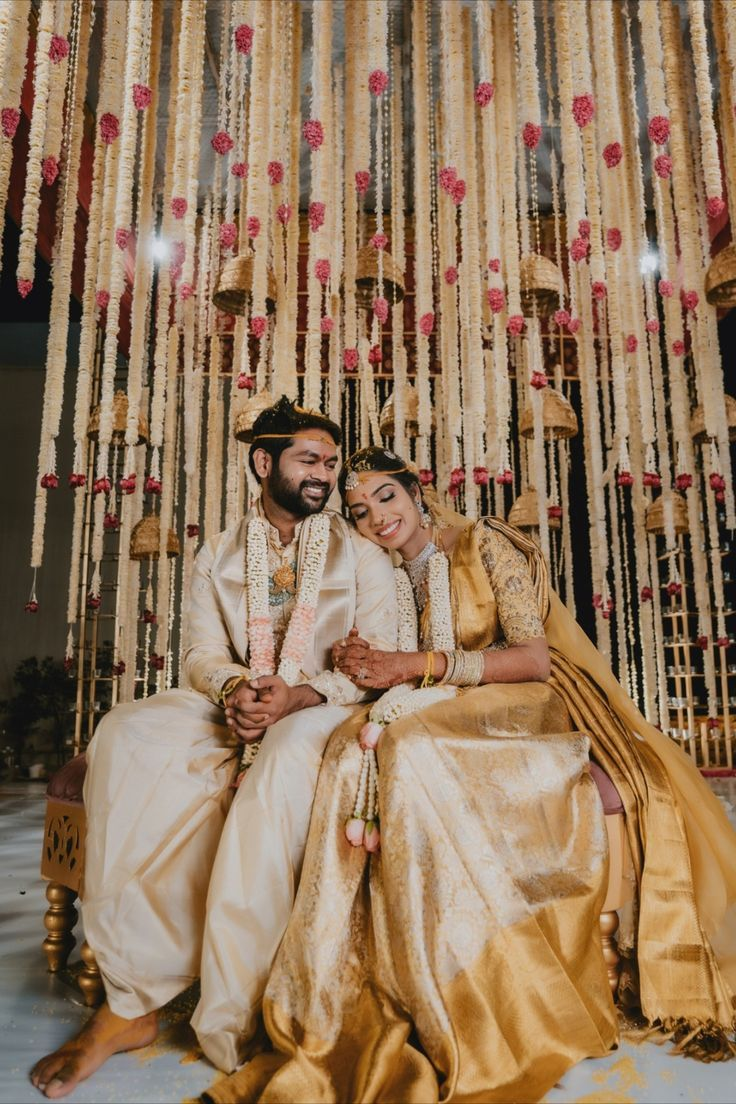
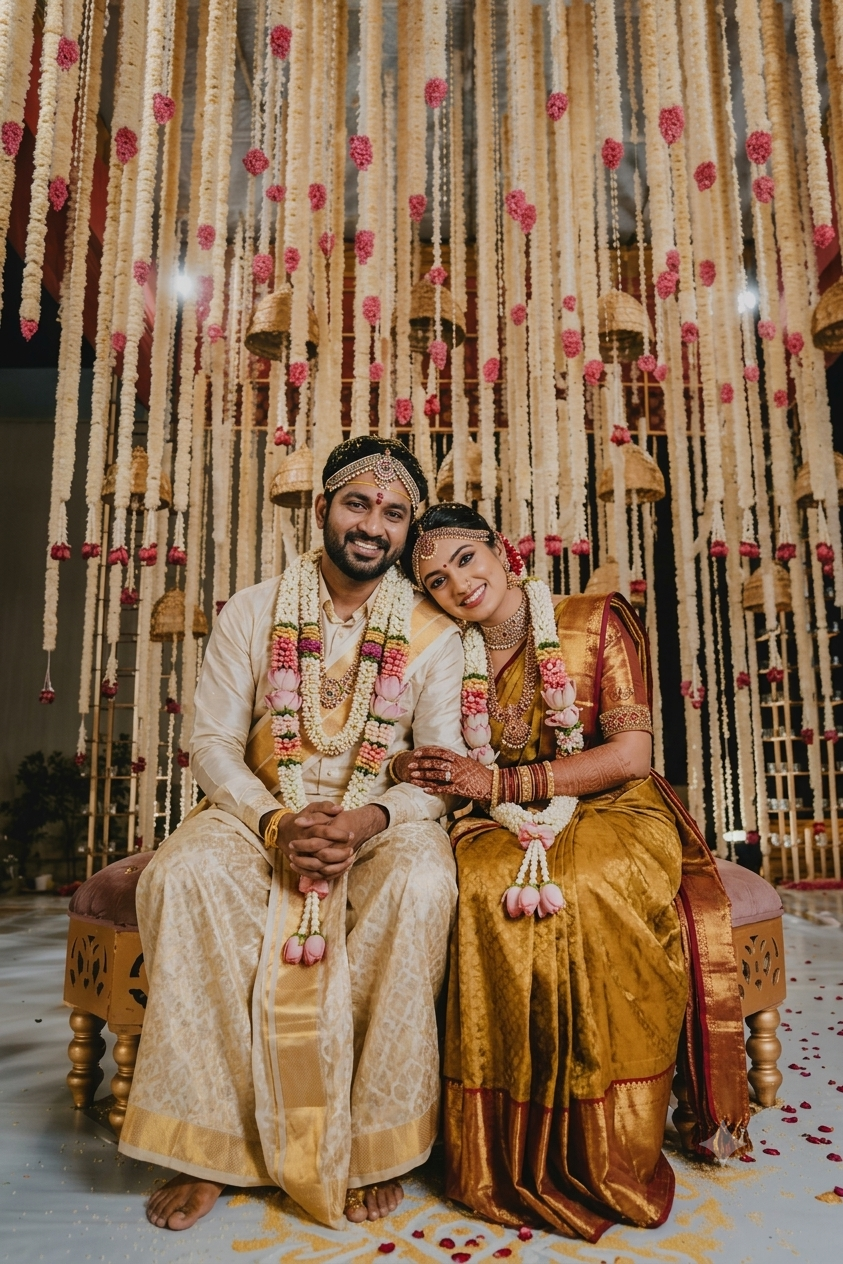
Onboarding images done

diff --git a/src/screens/notifications/NotificationScreen.tsx b/src/screens/notifications/NotificationScreen.tsx
@@ -12,7 +12,6 @@ import { SafeAreaView } from 'react-native-safe-area-context';
 import { useFocusEffect } from '@react-navigation/native';
 import {
   ArrowLeft,
-  BadgeCheck,
   Heart,
   UserPlus,
   CreditCard,
@@ -29,12 +28,25 @@ import {
 } from '../../api/notification';
 import { resolveImageUrl } from '../../utils/imageUrl';
 
-// icon + color per notification type
+const profileVerifiedBadge = require('../../assets/images/profileVerifiedBadge.png');
+const paymentSuccessful = require('../../assets/images/paymentSuccessful.png');
+const membershipExpired = require('../../assets/images/membershipExpired.png');
+
+// icon image per notification type, for the types with a dedicated exported badge
+const typeImage = (type: string) => {
+  const t = (type || '').toUpperCase();
+  if (t.includes('APPROVED') || t.includes('VERIFIED')) return profileVerifiedBadge;
+  if (t.includes('MEMBERSHIP') && (t.includes('EXPIR') || t.includes('FAILED')))
+    return membershipExpired;
+  if (t.includes('PAYMENT') && t.includes('SUCCESS')) return paymentSuccessful;
+  return null;
+};
+
+// icon + color per notification type, for everything else (falls back to a lucide icon)
 const typeConfig = (type: string) => {
   const t = (type || '').toUpperCase();
-  if (t.includes('APPROVED') || t.includes('VERIFIED'))
-    return { Icon: BadgeCheck, color: '#1a7f37' };
-  if (t.includes('ACCEPTED')) return { Icon: BadgeCheck, color: '#1a7f37' };
+  if (t.includes('APPROVED') || t.includes('VERIFIED') || t.includes('ACCEPTED'))
+    return { Icon: Bell, color: '#1a7f37' };
   if (t.includes('REQUEST')) return { Icon: UserPlus, color: '#D20236' };
   if (t.includes('INTEREST')) return { Icon: Heart, color: '#D20236' };
   if (t.includes('PAYMENT') || t.includes('MEMBERSHIP'))
@@ -177,12 +189,12 @@ export default function NotificationScreen({ navigation }: any) {
           onRefresh={onRefresh}
           renderItem={({ item }) => {
             const { Icon, color } = typeConfig(item.type);
+            const badgeImage = typeImage(item.type);
             const unread = !item.readAt;
             const hasProfile = !!item.data?.profileId;
             const isPayment = String(item.type || '').toUpperCase().includes('PAYMENT');
-            const avatarUri = item.data?.viewerPhoto
-              ? resolveImageUrl(item.data.viewerPhoto)
-              : '';
+            const rawPhoto = item.data?.viewerPhoto || item.data?.senderPhoto || '';
+            const avatarUri = rawPhoto ? resolveImageUrl(rawPhoto) : '';
             return (
               <TouchableOpacity
                 style={[styles.card, unread && styles.cardUnread]}
@@ -191,6 +203,8 @@ export default function NotificationScreen({ navigation }: any) {
               >
                 {avatarUri ? (
                   <Image source={{ uri: avatarUri }} style={styles.avatar} />
+                ) : badgeImage ? (
+                  <Image source={badgeImage} style={styles.badgeIcon} resizeMode="contain" />
                 ) : (
                   <View
                     style={[styles.iconWrap, { backgroundColor: `${color}18` }]}
@@ -279,6 +293,10 @@ const styles = StyleSheet.create({
     height: 42,
     borderRadius: 21,
     backgroundColor: '#f0f0f0',
+  },
+  badgeIcon: {
+    width: 42,
+    height: 42,
   },
   body: { flex: 1 },
   title: { fontSize: 15, fontFamily: 'Outfit-Bold', color: '#000' },

diff --git a/src/screens/matches/AllMatchesScreen.tsx b/src/screens/matches/AllMatchesScreen.tsx
@@ -8,6 +8,7 @@ import {
   TouchableOpacity,
   ActivityIndicator,
   Alert,
+  Image,
 } from 'react-native';
 import { SafeAreaView } from 'react-native-safe-area-context';
 import { useFocusEffect } from '@react-navigation/native';
@@ -247,7 +248,19 @@ export default function AllMatchesScreen({ navigation, route }: any) {
               onInterested={() => toggleInterest(item.profileId, item.isInterested)}
             />
           )}
-          ListEmptyComponent={<Text style={styles.empty}>No matches found</Text>}
+          ListEmptyComponent={
+            <View style={styles.emptyWrap}>
+              <Image
+                source={require('../../assets/images/noMatches.png')}
+                style={styles.emptyImage}
+                resizeMode="contain"
+              />
+              <Text style={styles.emptyTitle}>Sorry !</Text>
+              <Text style={styles.emptyText}>
+                No matches found in <Text style={styles.emptyTextBold}>Selected Filters</Text>
+              </Text>
+            </View>
+          }
           ListFooterComponent={
             loading && !initialLoading ? (
               <ActivityIndicator color="#D20236" style={{ marginVertical: 20 }} />
@@ -305,5 +318,9 @@ const styles = StyleSheet.create({
   filterBadgeText: { color: '#fff', fontSize: 10, fontFamily: 'Outfit-Bold' },
   countText: { fontSize: 12, color: '#999', paddingHorizontal: 16, marginBottom: 8 },
   list: { paddingHorizontal: 16, paddingBottom: 20 },
-  empty: { textAlign: 'center', color: '#999', marginTop: 40 },
+  emptyWrap: { alignItems: 'center', justifyContent: 'center', marginTop: 40, paddingHorizontal: 24 },
+  emptyImage: { width: 220, height: 220, marginBottom: 16 },
+  emptyTitle: { fontSize: 20, fontFamily: 'Outfit-Bold', color: '#D20236', marginBottom: 6 },
+  emptyText: { fontSize: 14, color: '#333', textAlign: 'center' },
+  emptyTextBold: { fontFamily: 'Outfit-Bold', color: '#000' },
 });
